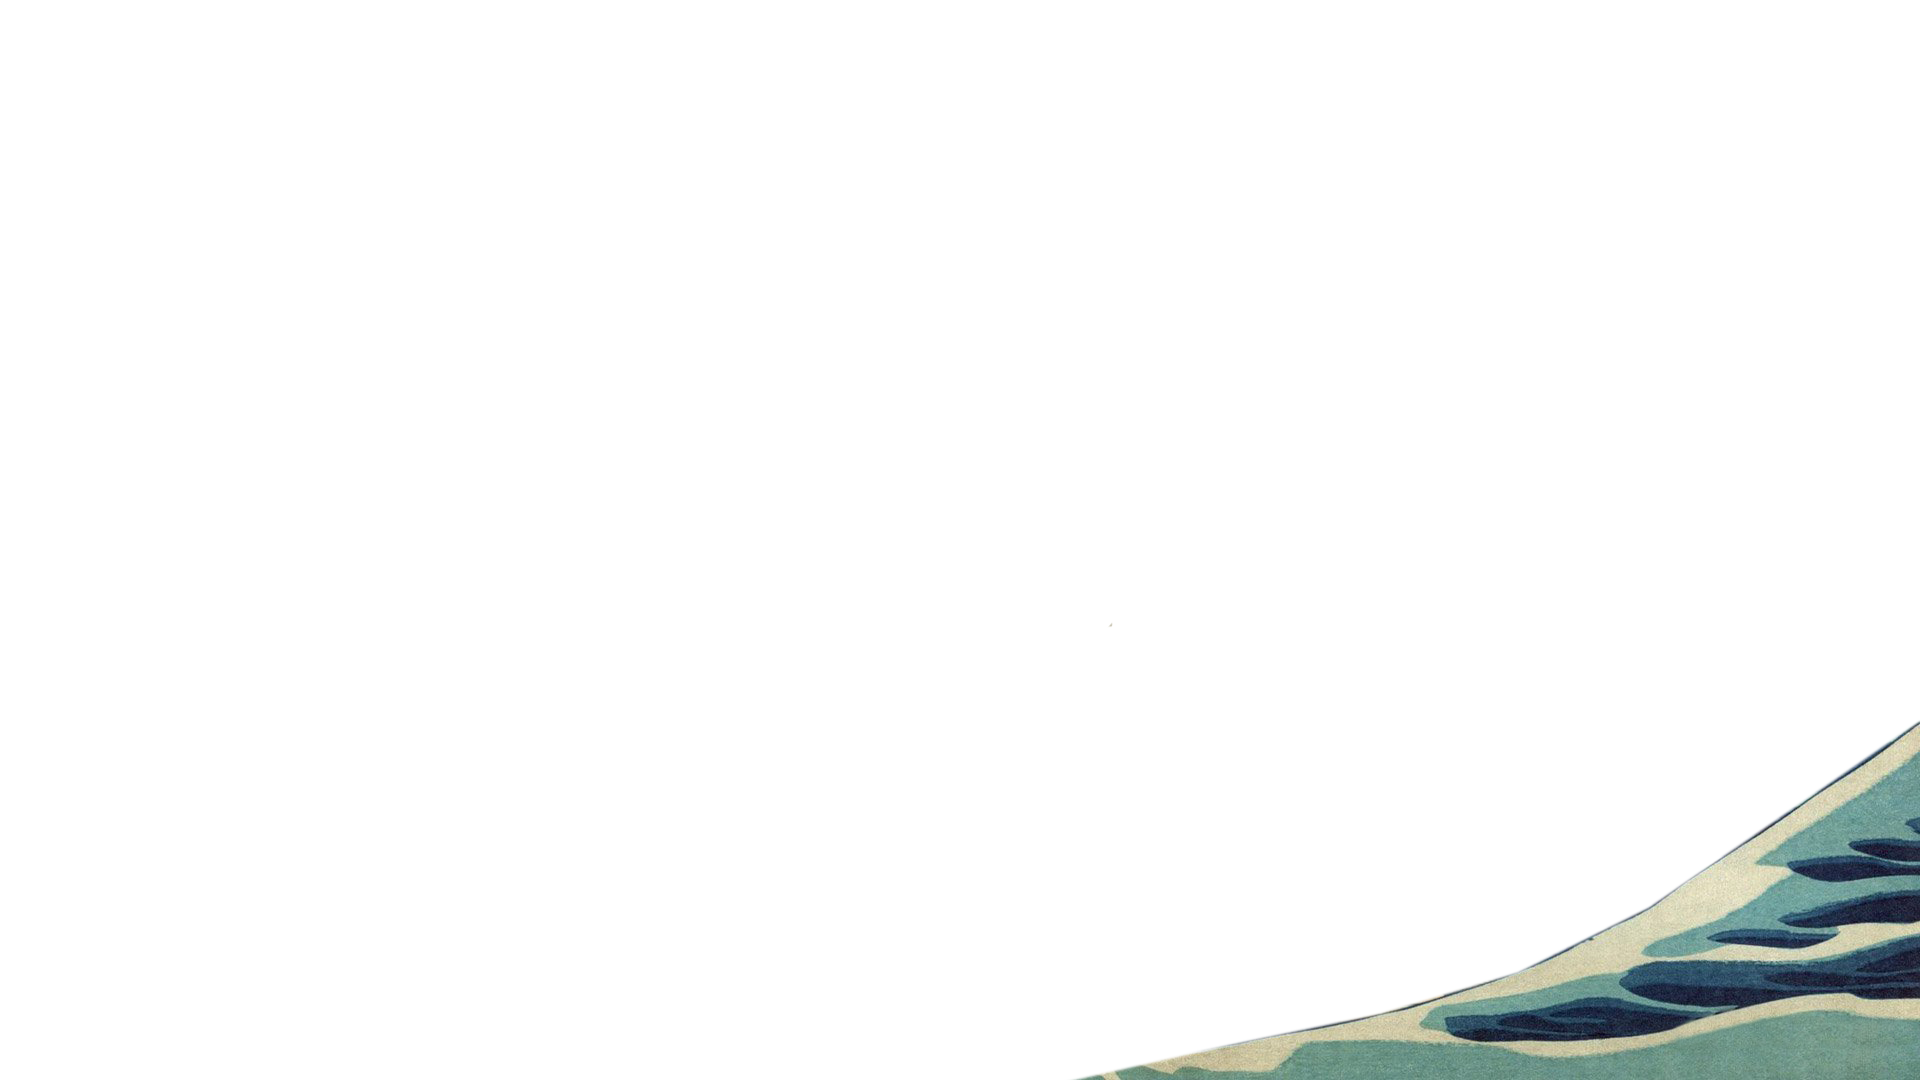
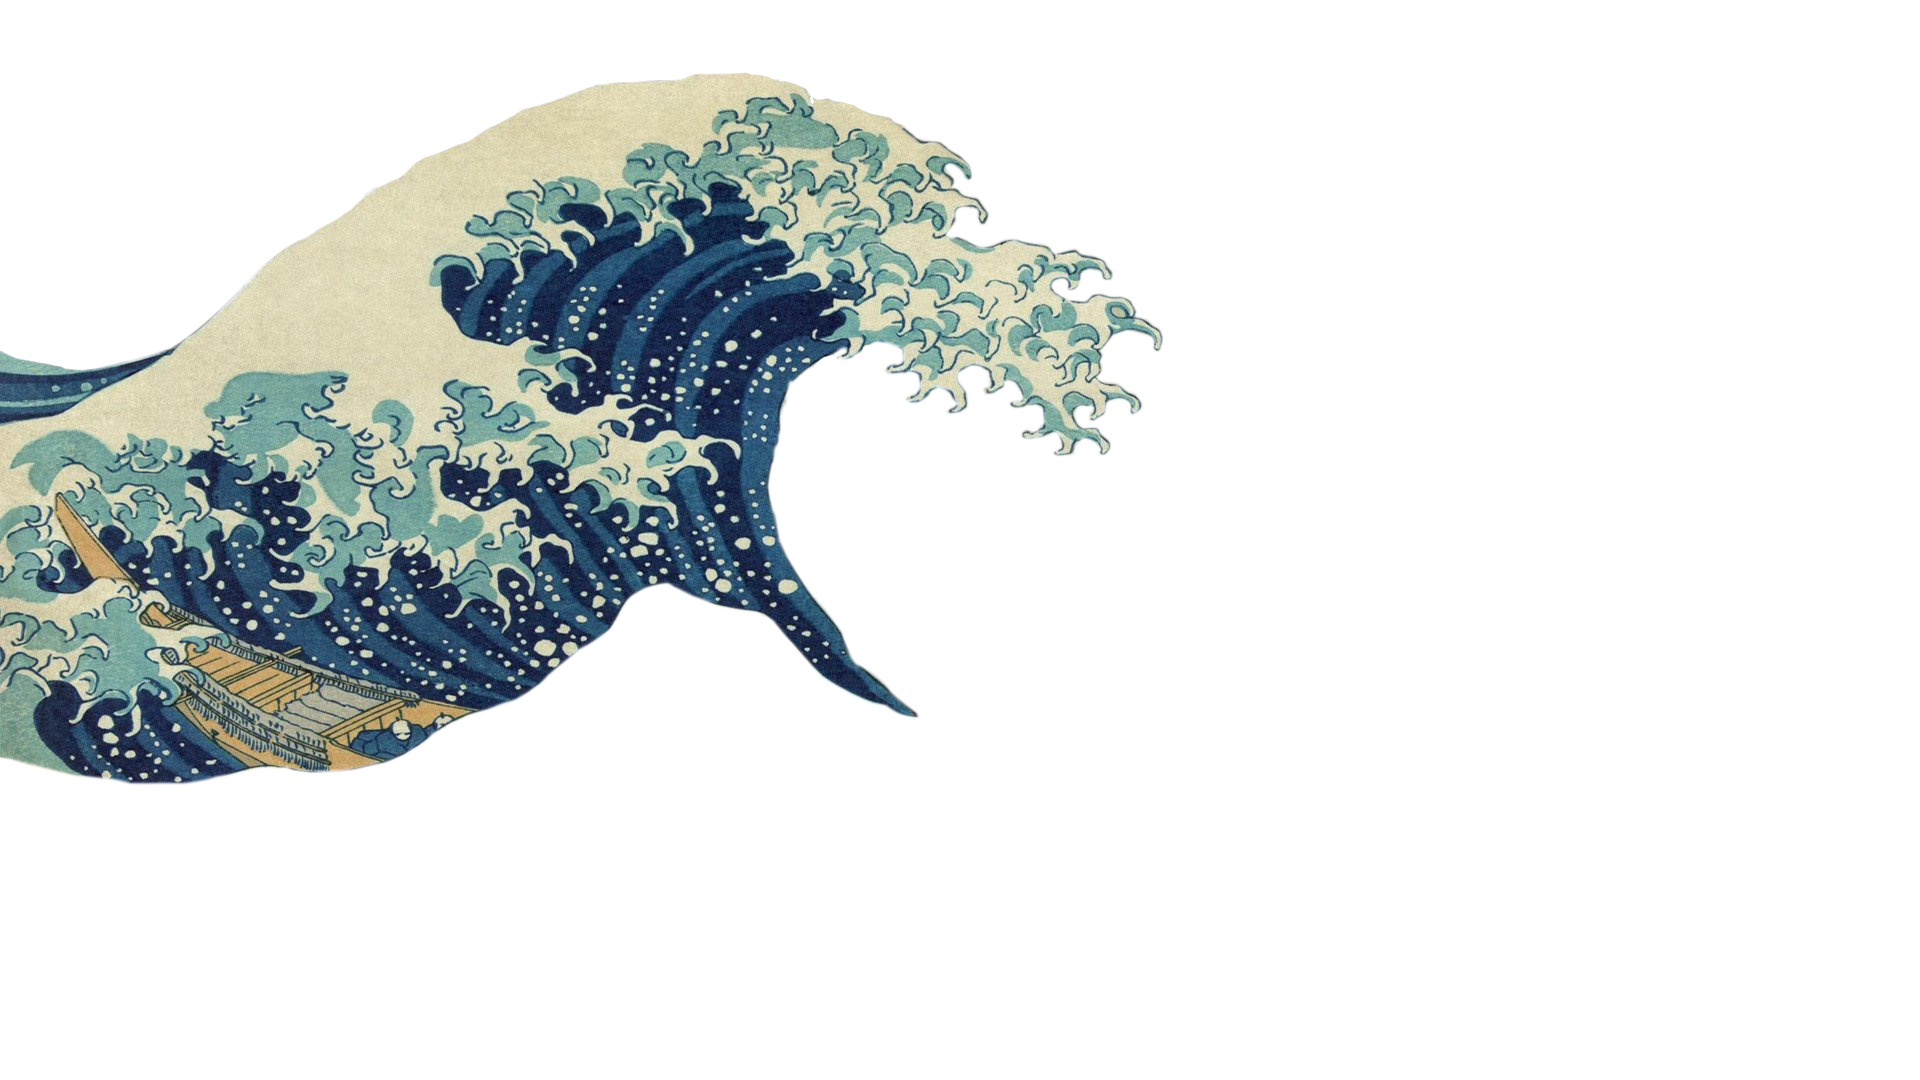
Local image storing and parallax image

Changed region(s): [[0.0, 0.0611, 0.625, 0.7333], [0.5625, 0.6722, 1.0, 1.0]]

diff --git a/src/app/great-wave/great-wave.component.html b/src/app/great-wave/great-wave.component.html
@@ -1,12 +1,15 @@
 <!--<img src="./assets/images/Layer1.png" alt="">-->
-<!--<img src="./assets/images/Layer2.png" alt="">-->
+<!--<img src="./assets/images/Layer4.png" alt="">-->
 
-<div class="parent">
-  <img class="image1" src="./assets/images/Layer1.png" alt="" id="layer1">
-  <img class="image3" src="./assets/images/Layer3.png" alt="" id="layer3">
-  <img class="image4" src="./assets/images/Layer4.png" alt="" id="layer4">
-  <img class="image2" src="./assets/images/Layer2.png" alt="" id="layer2">
-</div>
+<!--<div style="transform: translateX(-50%); position: fixed; top: 0; left: 0">-->
+<app-bio></app-bio>
+  <div class="parent">
+    <img class="image1" src="./assets/images/Layer1.png" alt="" id="layer1">
+    <img class="image2" src="../../assets/images/Layer2.png" alt="" id="layer2">
+    <img class="image3" src="../../assets/images/Layer3.png" alt="" id="layer3">
+    <img class="image4" src="../../assets/images/Layer4.png" alt="" id="layer4">
+  </div>
+<!--</div>-->
 
 
 <!--<script>-->

diff --git a/src/app/app.module.ts b/src/app/app.module.ts
@@ -8,7 +8,7 @@ import { SkillsComponent } from './skills/skills.component';
 import {NgOptimizedImage} from "@angular/common";
 import { FontAwesomeModule } from '@fortawesome/angular-fontawesome';
 import { HeaderComponent } from './header/header.component';
-import { GreatWaveComponent } from './great-wave/great-wave.component'
+import { GreatWaveComponent } from './great-wave/great-wave.component';
 
 
 
@@ -18,7 +18,7 @@ import { GreatWaveComponent } from './great-wave/great-wave.component'
     BioComponent,
     SkillsComponent,
     HeaderComponent,
-    GreatWaveComponent
+    GreatWaveComponent,
   ],
   imports: [
     BrowserModule,

diff --git a/src/app/bio/bio.component.html b/src/app/bio/bio.component.html
@@ -1,4 +1,13 @@
-<div style="padding-right: 20px; padding-top: 32px; text-align: right">
-  <h1 class="name">Adam Frenzen</h1>
-  <h1 class="title">Web Developer</h1>
-</div>
+<!--<div style="padding-right: 40px; padding-top: 32px; text-align: right">-->
+  <div class="row">
+
+    <div style="; position: fixed; top: 0; left: 0">
+      <div class="col-11" style="text-align: right; padding-top: 24px; padding-right: 0">
+        <h1 class="name">Adam Frenzen</h1>
+        <h1 class="title">Web Developer</h1>
+      </div>
+    </div>
+
+    <div class="col-1"></div>
+  </div>
+<!--</div>-->

diff --git a/src/app/great-wave/great-wave.component.css b/src/app/great-wave/great-wave.component.css
@@ -1,42 +1,33 @@
 .parent {
   position: relative;
-
+  transform: translateX(-100%);
   margin-left: 50%;
 
   top: 0;
   left: 0;
 }
 
-/*.thing {*/
-/*  margin-left: 50%;*/
-/*  transform: translateX(-50%);*/
-/*  max-width: 200vw;*/
-/*}*/
-
 .image1, .image2, .image3, .image4 {
-
   max-width: 100vw;
-
   position: absolute;
 }
+
 
 .image1 {
   position: relative;
   top: 0px;
   left: 0;
 }
-
 .image2 {
+   top: 0px;
+   left: 0px;
+ }
+.image3 {
   top: -30px;
   left: 0px;
 }
-
-.image3 {
-  top: 0px;
-  left: 0px;
-}
-
 .image4 {
   top: -30px;
   left: 0px;
 }
+

diff --git a/src/app/app.component.html b/src/app/app.component.html
@@ -9,13 +9,14 @@
 
 </head>
 <body>
-  <app-bio></app-bio>
-  <div style="transform: translateX(-50%) translateY(-30%);">
-    <app-great-wave></app-great-wave>
-  </div>
+<!--  <app-bio></app-bio>-->
+<!--  <app-mouse></app-mouse>-->
+<!--    <app-great-wave></app-great-wave>-->
 
-<!--  <app-header></app-header>-->
+  <app-header></app-header>
+  <h1>Adam Frenzen</h1>
   <app-skills></app-skills>
+
 </body>
 </html>
 

diff --git a/src/app/app.component.css b/src/app/app.component.css
@@ -2,14 +2,15 @@ body {
   width: 100vw;
   max-width: 1920px;
 }
-
 html {
-  background-color: lightblue;
+  background-color: blue;
   display: table;
   margin: auto;
+  overflow-y: scroll;
 }
 
 body {
+  background-color: white;
   width: 100vw;
   /*max-width: 1920px;*/
   display: table-cell;
